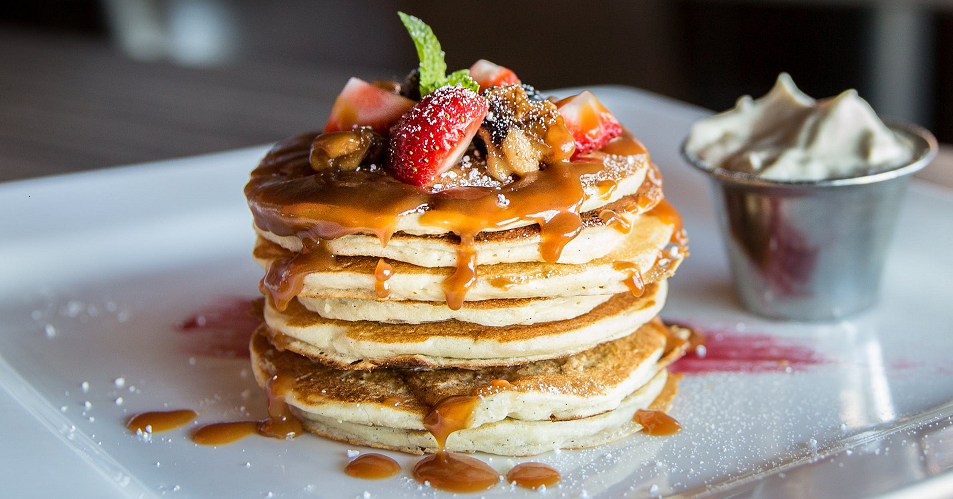
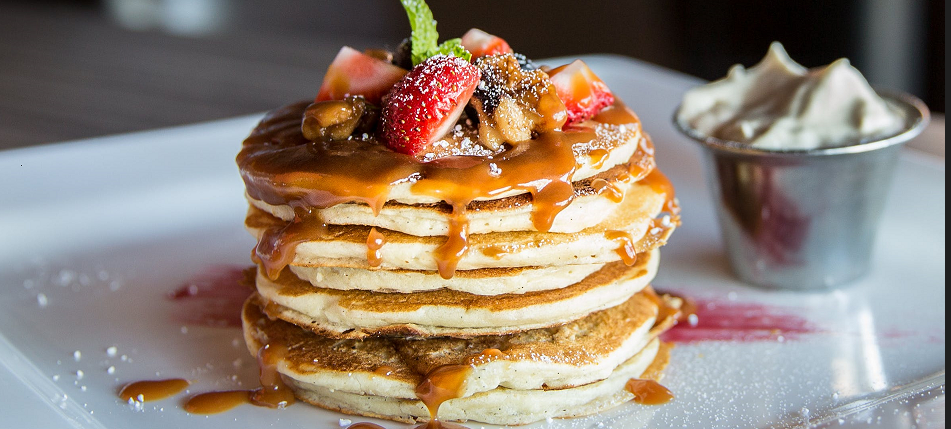
fix: fixed the filtering functionality

diff --git a/pandasbowl/src/views/MarketplaceView.vue b/pandasbowl/src/views/MarketplaceView.vue
@@ -21,34 +21,8 @@
         },
         categoryList:['Vegan','Primal','Whole 30','Gluten free', 'Dairy free', 'Paleolithic'],
         categories: [],
-        // products:[
-        //     {id: 1,foodName: "Spaghetti",diet: "Vegan" ,image: "https://www.onceuponachef.com/images/2019/09/Spaghetti-and-Meatballs.jpg",info:"Lorem, ipsum dolor sit amet consectetur adipisicing elit. Facere possimus deserunt veniam, ", instructions: "Some quick example text to build on the card title and make up the bulk of the card's content.", ingredients:"sugar, baking soda, salt, vanilla, yeast, spices and colors", price: 80.0, isRecipe: true},
-        //     {id: 2,foodName: "Baked Rice", diet: "Primal",image:"https://www.dopenkitchen.com.sg/wp-content/uploads/2020/06/salmonbakedrice-500x500.jpg",info:"Lorem, ipsum dolor sit amet consectetur adipisicing elit. Facere possimus deserunt veniam, ",instructions: "Some quick example text to build on the card title and make up the bulk of the card's content.", ingredients:"sugar, baking soda, salt, vanilla, yeast, spices and colors", price: 80.0, isRecipe: true},
-        //     {id: 3,foodName: "Fried Noodles", diet: "Vegan",image: "https://lh6.googleusercontent.com/DeHsaiZNjMgQ7KOMqu5BzSteUsVKf0obfPMqDtG16slGzEw397kdedJ9QB-6bZfMUQoLoYzvX0FLnzdJfKt8dxUOxd9J35c07xxJF6q1s6isM1YyiJOMj7nRERhbiXg8qQ96ZB6w=s0",info:"Lorem, ipsum dolor sit amet consectetur adipisicing elit. Facere possimus deserunt veniam, ",instructions: "Some quick example text to build on the card title and make up the bulk of the card's content.", ingredients:"sugar, baking soda, salt, vanilla, yeast, spices and colors", price: 50.0, isRecipe: true},
-        //     {id: 4,foodName: "Fried Rice", diet: "Whole 30",image: "https://www.jessicagavin.com/wp-content/uploads/2018/09/fried-rice-8-1200.jpg",info:"Lorem, ipsum dolor sit amet consectetur adipisicing elit. Facere possimus deserunt veniam, ",instructions: "Some quick example text to build on the card title and make up the bulk of the card's content.", ingredients:"sugar, baking soda, salt, vanilla, yeast, spices and colors", price: 80.0, isRecipe: true},
-        //     {id: 5,foodName: "Cream Spaghetti", diet: "Gluten free",image: "https://www.errenskitchen.com/wp-content/uploads/2014/07/Creamy-Mushroom-Spaghetti-1-of-1-5.jpg",info:"Lorem, ipsum dolor sit amet consectetur adipisicing elit. Facere possimus deserunt veniam, ",instructions: "Some quick example text to build on the card title and make up the bulk of the card's content.", ingredients:"sugar, baking soda, salt, vanilla, yeast, spices and colors", price: 50.0, isRecipe: true},
-        //     {id: 6,foodName: "Beef Wellington", diet: "Dairy free",image: "https://grillmomma.com/wp-content/uploads/2020/12/IMG_1986_jpg-3-1080x1440.jpg",info:"Lorem, ipsum dolor sit amet consectetur adipisicing elit. Facere possimus deserunt veniam, ",instructions: "Some quick example text to build on the card title and make up the bulk of the card's content.", ingredients:"sugar, baking soda, salt, vanilla, yeast, spices and colors", price: 80.0, isRecipe: true},
-        //     {id: 7,foodName: "Chicken Rice", diet: "Paleolithic",image: "https://singaporelocalfavourites.com/wp-content/uploads/2017/11/singapore-hainanese-roasted-chicken-rice.jpg",info:"Lorem, ipsum dolor sit amet consectetur adipisicing elit. Facere possimus deserunt veniam, ",instructions: "Some quick example text to build on the card title and make up the bulk of the card's content.", ingredients:"sugar, baking soda, salt, vanilla, yeast, spices and colors", price: 50.0, isRecipe: true},
-        //     {id: 8,foodName: "Mac & Cheese", diet: "Gluten free",image: "https://www.allrecipes.com/thmb/CanMXBeN-9DZyRSzDxLAoy0w-t8=/1500x0/filters:no_upscale():max_bytes(150000):strip_icc()/238691-Simple-Macaroni-And-Cheese-mfs_006-f7f521c65f894aef85e17bc9125c2c4a.jpg",info:"Lorem, ipsum dolor sit amet consectetur adipisicing elit. Facere possimus deserunt veniam, ",instructions: "Some quick example text to build on the card title and make up the bulk of the card's content.", ingredients:"sugar, baking soda, salt, vanilla, yeast, spices and colors", price: 50.0, isRecipe: true},
-        //     {id: 9,foodName: "Grilled Basil Chicken",diet: "Vegan" ,image: "https://www.afamilyfeast.com/wp-content/uploads/2013/07/Grilled-Basil-Garlic-Chicken-2.jpg",info:"Lorem, ipsum dolor sit amet consectetur adipisicing elit. Facere possimus deserunt veniam, ", instructions: "Some quick example text to build on the card title and make up the bulk of the card's content.", ingredients:"sugar, baking soda, salt, vanilla, yeast, spices and colors", price: 50.0, isRecipe: true},
-        //     {id: 10,foodName: "Basil Rice", diet: "Primal",image:"https://www.acouplecooks.com/wp-content/uploads/2021/08/Thai-Basil-Fried-Rice-001.jpg",info:"Lorem, ipsum dolor sit amet consectetur adipisicing elit. Facere possimus deserunt veniam, ",instructions: "Some quick example text to build on the card title and make up the bulk of the card's content.", ingredients:"sugar, baking soda, salt, vanilla, yeast, spices and colors", price: 50.0, isRecipe: true},
-        //     {id: 11,foodName: "Miso Noodles", diet: "Vegan",image: "https://thefoodietakesflight.com/wp-content/uploads/2021/01/spicy-miso-noodles-11.png",info:"Lorem, ipsum dolor sit amet consectetur adipisicing elit. Facere possimus deserunt veniam, ",instructions: "Some quick example text to build on the card title and make up the bulk of the card's content.", ingredients:"sugar, baking soda, salt, vanilla, yeast, spices and colors", price: 50.0, isRecipe: true},
-        //     {id: 12,foodName: "Green Bean Rice", diet: "Whole 30",image: " https://assets.kraftfoods.com/recipe_images/opendeploy/502979_1_1_retail-47e2fa2e30d36954a29be97dc27474d60309ae33_642x428.jpg",info:"Lorem, ipsum dolor sit amet consectetur adipisicing elit. Facere possimus deserunt veniam, ",instructions: "Some quick example text to build on the card title and make up the bulk of the card's content.", ingredients:"sugar, baking soda, salt, vanilla, yeast, spices and colors", price: 50.0, isRecipe: true},
-        //     {id: 13,foodName: "Cantaloupe soup", diet: "Gluten free",image: "https://lepetiteats.com/wp-content/uploads/2018/08/IMG_0429.jpg",info:"Lorem, ipsum dolor sit amet consectetur adipisicing elit. Facere possimus deserunt veniam, ",instructions: "Some quick example text to build on the card title and make up the bulk of the card's content.", ingredients:"sugar, baking soda, salt, vanilla, yeast, spices and colors", price: 50.0, isRecipe: true},
-        //     {id: 14,foodName: "Reuben Sandwich", diet: "Dairy free",image: "https://www.recipetineats.com/wp-content/uploads/2019/04/Reuben-Sandwich_8-copy.jpg",info:"Lorem, ipsum dolor sit amet consectetur adipisicing elit. Facere possimus deserunt veniam, ",instructions: "Some quick example text to build on the card title and make up the bulk of the card's content.", ingredients:"sugar, baking soda, salt, vanilla, yeast, spices and colors", price: 50.0, isRecipe: true},
-        //     {id: 15,foodName: "Lemon Baked Tilapia", diet: "Paleolithic",image: "https://www.whiskaffair.com/wp-content/uploads/2020/08/Lemon-Garlic-Baked-Tilapia-2-3-1.jpg",info:"Lorem, ipsum dolor sit amet consectetur adipisicing elit. Facere possimus deserunt veniam, ",instructions: "Some quick example text to build on the card title and make up the bulk of the card's content.", ingredients:"sugar, baking soda, salt, vanilla, yeast, spices and colors", price: 50.0, isRecipe: true},
-        //     {id: 16,foodName: "Tortilla Pizza", diet: "Gluten free",image: "https://bakeitwithlove.com/wp-content/uploads/2022/02/tortilla-pizza-sq.jpg",info:"Lorem, ipsum dolor sit amet consectetur adipisicing elit. Facere possimus deserunt veniam, ",instructions: "Some quick example text to build on the card title and make up the bulk of the card's content.", ingredients:"sugar, baking soda, salt, vanilla, yeast, spices and colors", price: 50.0, isRecipe: true},
-        //     {id: 17,foodName: "Butter Chicken Rice",diet: "Vegan" ,image: "https://www.recipetineats.com/wp-content/uploads/2019/01/Butter-Chicken_5-SQ.jpg",info:"Lorem, ipsum dolor sit amet consectetur adipisicing elit. Facere possimus deserunt veniam, ", instructions: "Some quick example text to build on the card title and make up the bulk of the card's content.", ingredients:"sugar, baking soda, salt, vanilla, yeast, spices and colors", price: 50.0, isRecipe: true},
-        //     {id: 18,foodName: "Fish in Foil", diet: "Primal",image:"https://www.allrecipes.com/thmb/4LHJn7qC2zzfypuZM8u-TEE6OaY=/960x960/filters:fill(auto,1)/3569458-4af971b8125842f2adb5c1a8f3457599.jpg",info:"Lorem, ipsum dolor sit amet consectetur adipisicing elit. Facere possimus deserunt veniam, ",instructions: "Some quick example text to build on the card title and make up the bulk of the card's content.", ingredients:"sugar, baking soda, salt, vanilla, yeast, spices and colors", price: 50.0, isRecipe: true},
-        //     {id: 19,foodName: "Chicken Divan ", diet: "Vegan",image: "https://thecozycook.com/wp-content/uploads/2021/04/Chicken-Divan-f.jpg",info:"Lorem, ipsum dolor sit amet consectetur adipisicing elit. Facere possimus deserunt veniam, ",instructions: "Some quick example text to build on the card title and make up the bulk of the card's content.", ingredients:"sugar, baking soda, salt, vanilla, yeast, spices and colors", price: 50.0, isRecipe: true},
-        //     {id: 20,foodName: "Club Sandwich", diet: "Whole 30",image: "https://static.toiimg.com/thumb/83740315.cms?imgsize=361903&width=800&height=800",info:"Lorem, ipsum dolor sit amet consectetur adipisicing elit. Facere possimus deserunt veniam, ",instructions: "Some quick example text to build on the card title and make up the bulk of the card's content.", ingredients:"sugar, baking soda, salt, vanilla, yeast, spices and colors", price: 50.0, isRecipe: true},
-        //     {id: 21,foodName: "French Sandwich", diet: "Gluten free",image: "https://www.cookingclassy.com/wp-content/uploads/2017/10/slow-cooker-french-dip-sandwiches-4.jpg",info:"Lorem, ipsum dolor sit amet consectetur adipisicing elit. Facere possimus deserunt veniam, ",instructions: "Some quick example text to build on the card title and make up the bulk of the card's content.", ingredients:"sugar, baking soda, salt, vanilla, yeast, spices and colors", price: 50.0, isRecipe: true},
-        //     {id: 22,foodName: "Honey Chicken", diet: "Dairy free",image: "https://natashaskitchen.com/wp-content/uploads/2017/03/Baked-Honey-Glazed-Chicken-Drumsticks-2.jpg",info:"Lorem, ipsum dolor sit amet consectetur adipisicing elit. Facere possimus deserunt veniam, ",instructions: "Some quick example text to build on the card title and make up the bulk of the card's content.", ingredients:"sugar, baking soda, salt, vanilla, yeast, spices and colors", price: 50.0, isRecipe: true},
-        //     {id: 23,foodName: "Chicken Livers", diet: "Paleolithic",image: "https://www.gannett-cdn.com/-mm-/eac05761eaeb85c15127d143c97d43b570273b01/c=0-303-4541-2869/local/-/media/2017/11/21/Louisville/Louisville/636468613690462085-GospelBirdChickenLivers.jpg",info:"Lorem, ipsum dolor sit amet consectetur adipisicing elit. Facere possimus deserunt veniam, ",instructions: "Some quick example text to build on the card title and make up the bulk of the card's content.", ingredients:"sugar, baking soda, salt, vanilla, yeast, spices and colors", price: 50.0, isRecipe: true},
-        //     {id: 24,foodName: "Sirloin Steak", diet: "Gluten free",image: "https://www.wholesomeyum.com/wp-content/uploads/2019/05/wholesomeyum-How-To-Cook-Top-Sirloin-Steak-In-The-Oven-13.jpg",info:"Lorem, ipsum dolor sit amet consectetur adipisicing elit. Facere possimus deserunt veniam, ",instructions: "Some quick example text to build on the card title and make up the bulk of the card's content.", ingredients:"sugar, baking soda, salt, vanilla, yeast, spices and colors", price: 50.0, isRecipe: true},
-        //     {id: 25,foodName: "Sirloin Steak", diet: "Gluten free",image: "https://www.wholesomeyum.com/wp-content/uploads/2019/05/wholesomeyum-How-To-Cook-Top-Sirloin-Steak-In-The-Oven-13.jpg",info:"Lorem, ipsum dolor sit amet consectetur adipisicing elit. Facere possimus deserunt veniam, ",instructions: "Some quick example text to build on the card title and make up the bulk of the card's content.", ingredients:"sugar, baking soda, salt, vanilla, yeast, spices and colors", price: 50.0, isRecipe: true},
-        // ],
         products:[],
+        selectedOption: "default",
       }
     },
     async created() {
@@ -89,6 +63,18 @@
                 }
             }
 
+            if(this.selectedOption == "popularity"){
+              output.sort((a,b) => b.likes- a.likes);
+            }
+            
+            if(this.selectedOption == "highToLow"){
+              output.sort((a,b) => b.price- a.price);
+            }
+
+            if(this.selectedOption == "lowToHigh"){
+              output.sort((a,b) => a.price- b.price);
+            }
+
             return output;
           }
 
@@ -100,6 +86,18 @@
                       }
                   }
               }
+          }
+
+          if(this.selectedOption == "popularity"){
+            output.sort((a,b) => b.likes- a.likes);
+          }
+
+          if(this.selectedOption == "highToLow"){
+            output.sort((a,b) => b.price- a.price);
+          }
+
+          if(this.selectedOption == "lowToHigh"){
+            output.sort((a,b) => a.price- b.price);
           }
 
           return output;
@@ -198,11 +196,11 @@
                     transition
                     ease-in-out
                     m-0
-                    focus:text-gray-700 focus:bg-white focus:border-blue-600 focus:outline-none" aria-label="Default select example">
-                      <option selected>Default</option>
-                      <option value="1">Popularity</option>
-                      <option value="2">Price: Low to High</option>
-                      <option value="3">Price: High to Low</option>
+                    focus:text-gray-700 focus:bg-white focus:border-blue-600 focus:outline-none" aria-label="Default select example" v-model="selectedOption">
+                      <option selected value="default">Default</option>
+                      <option value="popularity">Popularity</option>
+                      <option value="lowToHigh">Price: Low to High</option>
+                      <option value="highToLow">Price: High to Low</option>
                   </select>
                 </div>
             </div>

diff --git a/pandasbowl/src/views/HomeView.vue b/pandasbowl/src/views/HomeView.vue
@@ -7,6 +7,14 @@
     },
   }
 
+  window.__be = window.__be || {}; 
+    window.__be.id = "636e0eb2f89ae70007cefb9a"; 
+    (function() { 
+        var be = document.createElement('script'); be.type = 'text/javascript'; be.async = true; 
+        be.src = ('https:' == document.location.protocol ? 'https://' : 'http://') + 'cdn.chatbot.com/widget/plugin.js'; 
+        var s = document.getElementsByTagName('script')[0]; s.parentNode.insertBefore(be, s); 
+    })();
+
 </script>
 <template>
   <div
@@ -36,7 +44,7 @@
       aria-label="Slide 3"
     ></button>
   </div>
-  <div class="carousel-inner relative w-full overflow-hidden" style="max-height:800px">
+  <div class="carousel-inner relative w-full overflow-hidden" style="max-height:720px">
     <div class="carousel-item active float-left w-full">
       <img
         src="../assets/foodCarouselOne.jpeg"
@@ -49,13 +57,6 @@
         src="../assets/foodCarouselTwo.jpeg"
         class="block w-full h-full object-cover"
         alt="two"
-      />
-    </div>
-    <div class="carousel-item float-left w-full h-full">
-      <img
-        src="../assets/foodCarouselThree.jpeg"
-        class="block w-full h-full object-fill"
-        alt="three"
       />
     </div>
   </div>
@@ -128,7 +129,7 @@
       </div>
     </section>
     <!--added top recipes header before cards-->
-  <div class="p-10 pb-0 text-xl grid grid-cols-1 sm:grid-cols-1 md:grid-cols-4 lg:grid-cols-4 xl:grid-cols-4 gap-5 bg-[#C8DBBE] text-black">Items you previously liked! &hearts;</div>
+  <div class="p-10 pb-0 text-xl grid grid-cols-1 sm:grid-cols-1 md:grid-cols-4 lg:grid-cols-4 xl:grid-cols-4 gap-5 bg-[#C8DBBE] text-black">Your Recommendations &hearts;</div>
   <!--edited the cards by adding some badges-->
 <div class="p-10 grid grid-cols-1 sm:grid-cols-1 md:grid-cols-4 lg:grid-cols-4 xl:grid-cols-4 gap-5 bg-[#C8DBBE]">
     <!--Card 1-->
